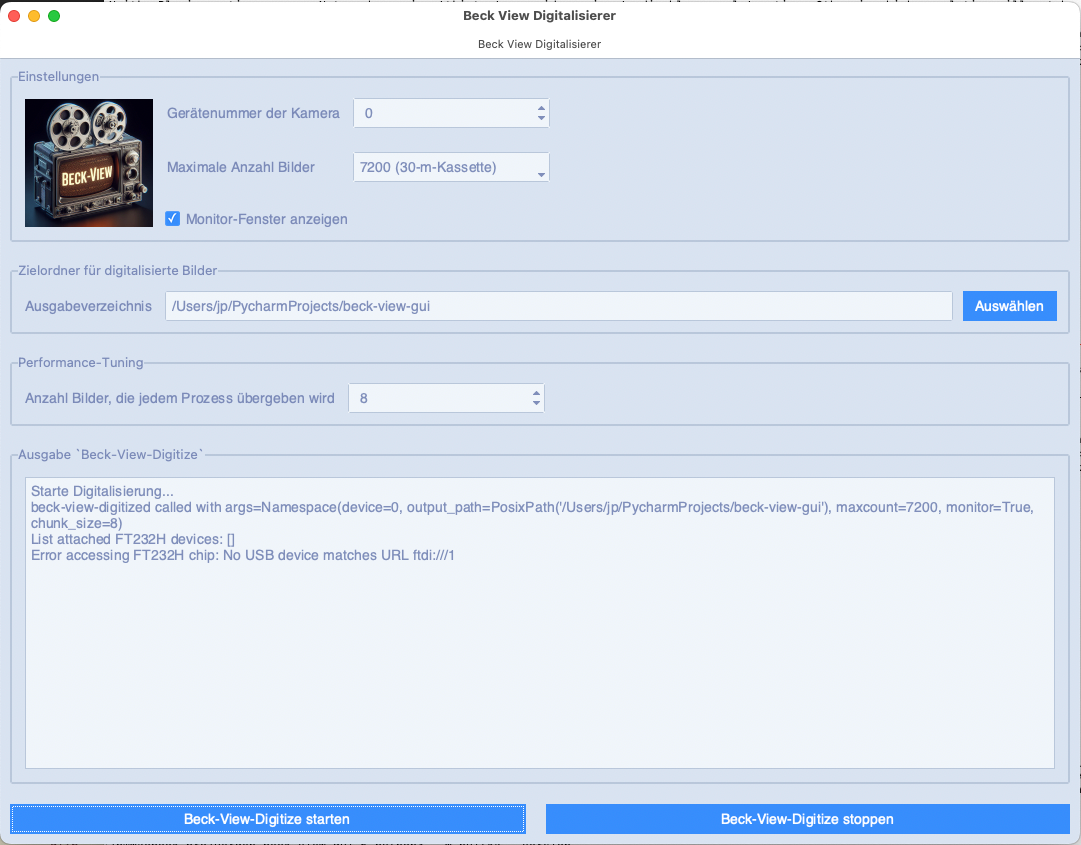
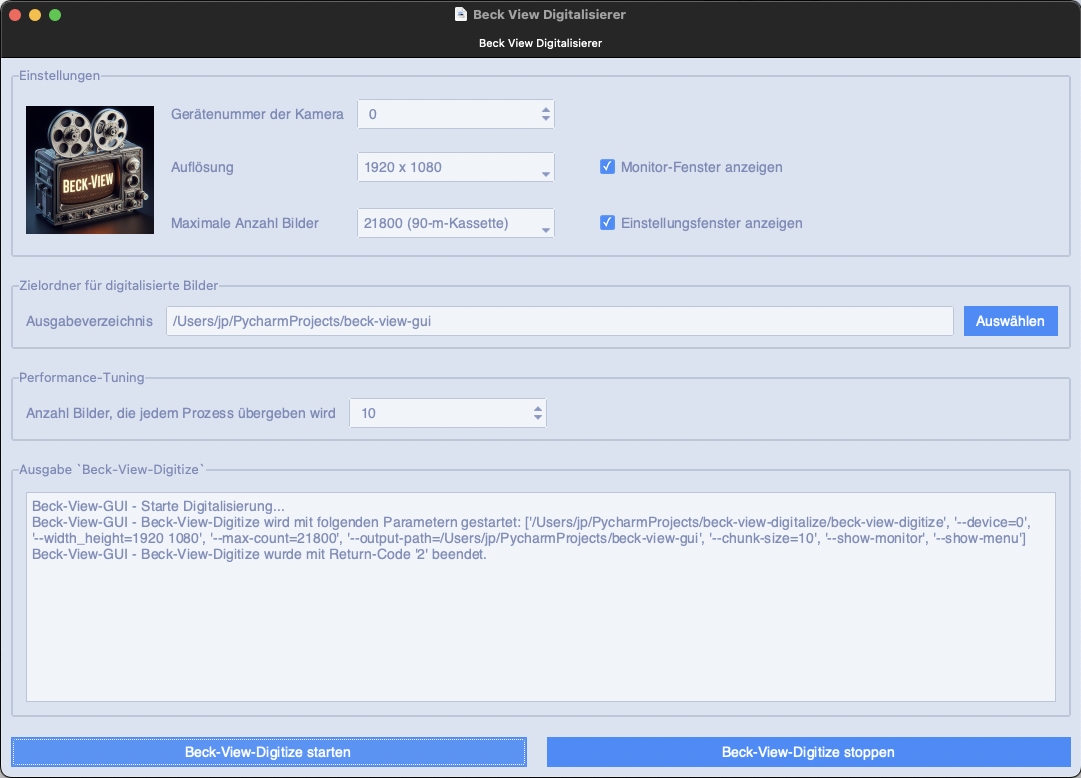
some small chanes to the build process

Changed region(s): [[0.0, 0.0, 1.0, 1.0], [0.5495, 0.1851, 0.6411, 0.2468], [0.6716, 0.1851, 0.7021, 0.2159]]

diff --git a/beck_view_gui.py b/beck_view_gui.py
@@ -313,7 +313,7 @@ class GroupLayout(ttk.Frame):
             if self.preferences.monitor.get():
                 command.append("--show-monitor")
 
-            if os.name == 'nt' and self.preferences.display_menu.get():
+            if os.name != 'nt' and self.preferences.display_menu.get():
                 command.append("--show-menu")
 
             self.subprocess_output.text_output.insert(tkinter.END,

diff --git a/README.md b/README.md
@@ -46,6 +46,7 @@ using `ttkbootstrap` for a modern and consistent look and feel across different 
 2. **Configure Settings**:
    - Select the camera device number.
    - Choose the maximum number of frames to digitize.
+   - Choose the resolution which is used to digitise images.
    - Set the output directory for digitized images.
    - Adjust the chunk size for parallel image processing.
    - Enable the monitor window if needed.
@@ -86,9 +87,9 @@ To distribute Beck View GUI as a standalone executable, you can use Nuitka, a Py
    -  MacOS
 
    ```sh
-   python3 -m nuitka  --macos-app-icon=beck-view-digitize.png  --enable-plugin=tk-inter --follow-imports --onefile --static-libpython=no --standalone --macos-app-mode=gui --tcl-library-dir=/opt/homebrew/Cellar/tcl-tk/9.0.1/lib --tk-library-dir=/opt/homebrew/Cellar/tcl-tk/9.0.1/lib -o "beck-view-gui" beck_view_gui.py
+   python3 -m nuitka  --product-name="beck-view-gui" --standalone --macos-app-icon=beck-view-digitize.png --macos-app-mode=gui --onefile --enable-plugin=tk-inter --tcl-library-dir=/opt/homebrew/Cellar/tcl-tk/9.0.1/lib --tk-library-dir=/opt/homebrew/Cellar/tcl-tk/9.0.1/lib --static-libpython=no -o "beck-view-gui" beck_view_gui.py
    ```
-   With `Nuitka` version 2.2.6 the build process fails on macOS
+   With `Nuitka` version 2.7.11 the build process emits an error message on macOS
 
     >  FATAL: Error, call to '/usr/bin/codesign' failed: ['/usr/bin/codesign', '-s', '-', '--force', '--deep', '--preserve-metadata=entitlements', 'beck-view-gui'] -> b'beck-view-gui: bundle format unrecognized, invalid, or unsuitable\nIn subcomponent: /Users/jp/PycharmProjects/beck-view-gui/beck_view_gui.onefile-build'.
 
